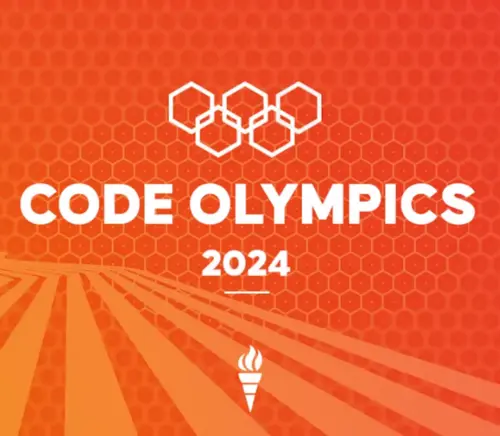
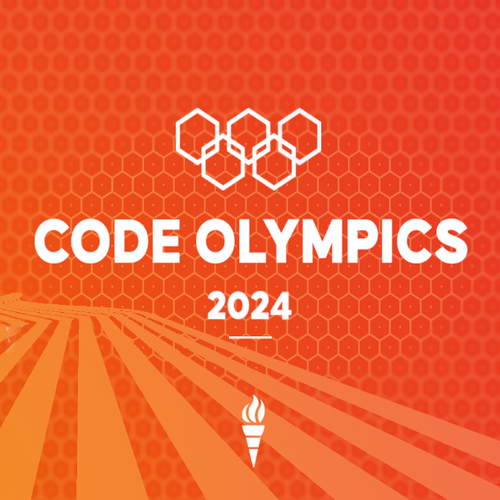
fix co2024 image and remove stray dot

diff --git a/index.html b/index.html
@@ -46,7 +46,7 @@
             <svg class="hex-secondary" version="1.1" id="svg1" viewBox="0 0 1164.992 1322.0202" xmlns="http://www.w3.org/2000/svg" xmlns:svg="http://www.w3.org/2000/svg"><g id="g1" transform="translate(-218.43911,-236.36974)"><path d="m 784.50781,1557.5717 c -6.0935,-2.0166 -26.1712,-12.5387 -50.0263,-26.2171 -20.9693,-12.0237 -161.2257,-92.9918 -396.5815,-228.9411 -46.2487,-26.7148 -87.5578,-51.3671 -91.7979,-54.783 -10.0297,-8.0801 -16.993,-17.4011 -22.5062,-30.1263 l -4.4535,-10.2793 -0.3517,-306.97682 -0.3516,-306.97672 2.9165,-8.94264 c 3.528,-10.81731 8.9264,-20.66366 15.5927,-28.43987 7.0117,-8.17916 20.3331,-16.09004 270.0165,-160.34859 187.4856,-108.32283 249.6169,-143.9879 261.7813,-150.26971 18.6449,-9.62835 37.1916,-11.47589 54.138,-5.39297 8.0668,2.89557 58.2748,31.48737 306.32529,174.44214 236.9467,136.55548 224.6312,129.13363 237.0491,142.85587 8.8015,9.72596 13.8185,19.15552 15.8043,29.70487 1.7748,9.42803 1.8473,598.39974 0.076,616.71284 -0.9263,9.576 -2.2161,14.7638 -5.1026,20.5235 -4.8897,9.7569 -17.5267,22.7369 -29.904,30.7157 -19.5339,12.5921 -493.14609,285.3 -518.54259,298.579 -8.1937,4.2842 -9.5912,4.5628 -24.6705,4.9178 -8.7916,0.207 -17.5266,-0.1339 -19.4112,-0.7576 z" id="path6"/></g></svg>
             <h2>JOIN US</h2>
         </a>
-        <hr id="mobile-nav-line">
+        <hr id="mobile-nav-line" style="visibility: hidden">
         <svg id="nav-socials-hamburger" onclick="expandNavSocials()" xmlns="http://www.w3.org/2000/svg" viewBox="0 0 448 512"><!--!Font Awesome Free 6.6.0 by @fontawesome - https://fontawesome.com License - https://fontawesome.com/license/free Copyright 2024 Fonticons, Inc.--><path d="M0 96C0 78.3 14.3 64 32 64l384 0c17.7 0 32 14.3 32 32s-14.3 32-32 32L32 128C14.3 128 0 113.7 0 96zM0 256c0-17.7 14.3-32 32-32l384 0c17.7 0 32 14.3 32 32s-14.3 32-32 32L32 288c-17.7 0-32-14.3-32-32zM448 416c0 17.7-14.3 32-32 32L32 448c-17.7 0-32-14.3-32-32s14.3-32 32-32l384 0c17.7 0 32 14.3 32 32z"/></svg>
     </div>
 
